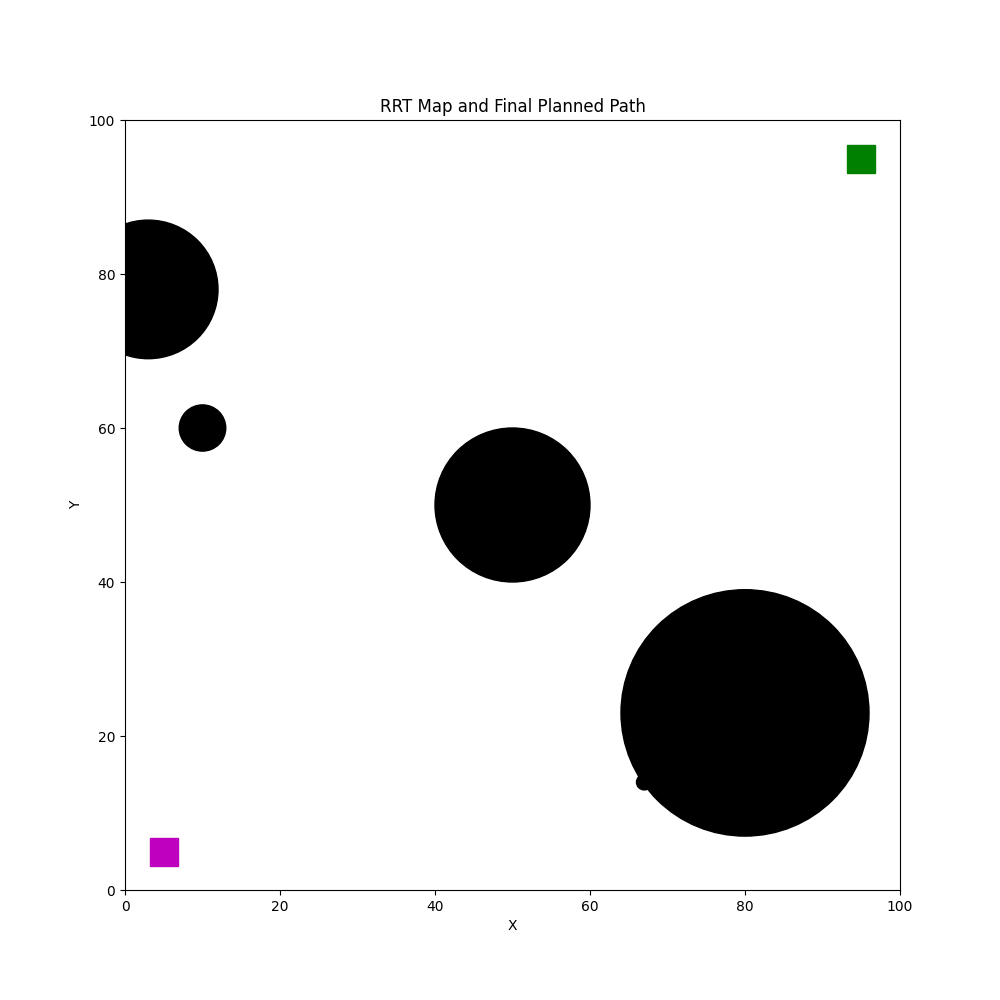
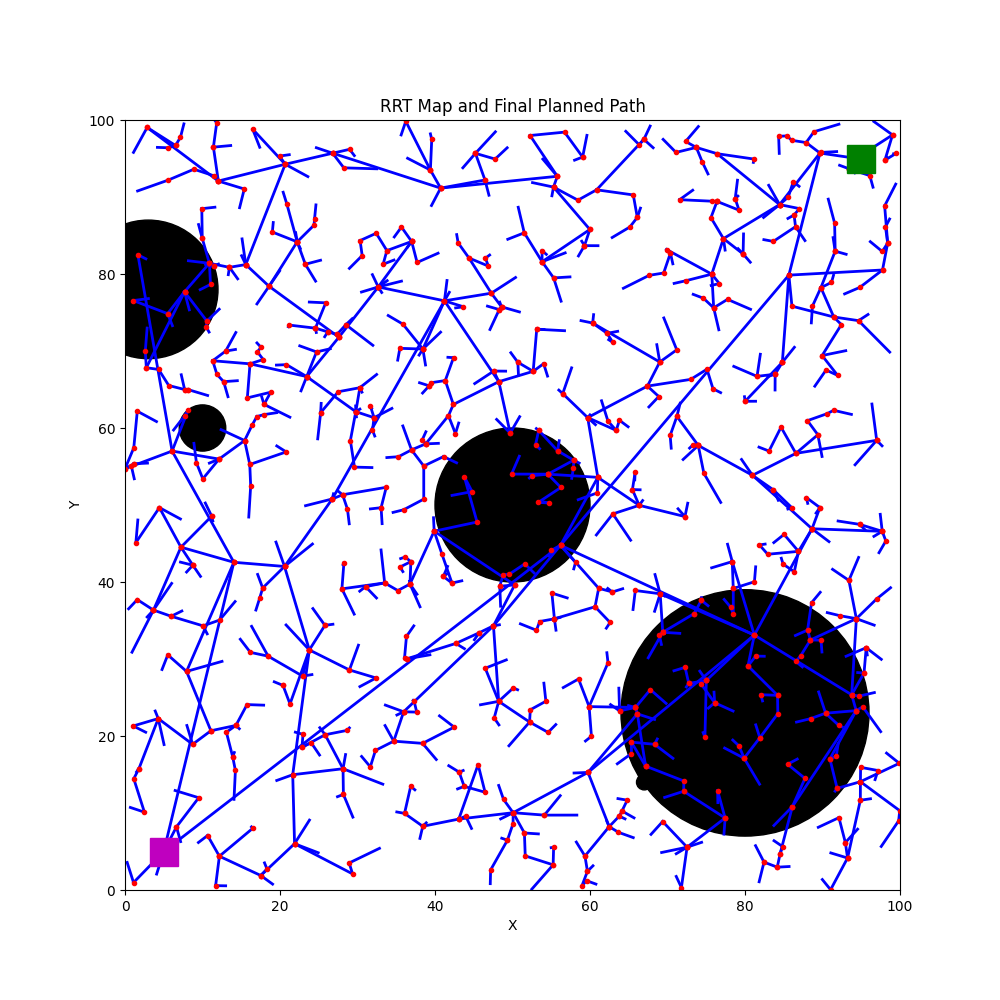
Able to plot nodes (tree).

diff --git a/project1/rrt.py b/project1/rrt.py
@@ -82,32 +82,16 @@ if __name__ == "__main__":
 
     # ----------------------------------------- Run RRT ----------------------------------------
     
-    vertices, edges = getTree(100, start_coord, goal_coord, obstacle_coords)
-
-    # # plotting the map (tree)
-    # for vertex in vertices:
-    #     plt.plot([vertex, node.parent.x], [node.y, node.parent.y], "-b", linewidth=2)
-    #     plt.plot(node.x, node.y, ".r")
-
-    # G = nx.Graph()
-    # color = []
-    # node_size = []
-    # for i in range(len(vertices)):
-    #     if i == 0:
-    #         G.add_node(vertices[i], pos=vertices[i])
-    #         color.append('blue')
-    #         node_size.append(100)
-    #     else:
-    #         G.add_node(vertices[i], pos=vertices[i])
-    #         color.append('green')
-    #         node_size.append(10)
-    # G.add_edges_from(edges)
-    # pos=nx.get_node_attributes(G,'pos')
-    # nx.draw(G, pos=pos, node_color=color, node_size=node_size)
+    vertices, edges = getTree(1000, start_coord, goal_coord, obstacle_coords)
 
     # -------------------------------------- Create Plots ---------------------------------
     
     plt.figure(num=1, figsize=(10, 10), dpi=100, facecolor='w', edgecolor='k')
+
+    # plotting the map (tree)
+    for edge in edges:
+        plt.plot([edge[0][0], edge[1][0]], [edge[0][1], edge[1][1]], "-b", linewidth=2)
+        plt.plot(edge[0][0], edge[0][1], ".r")
 
     # Plot the start and goal locations.
     plt.plot(start_coord[0], start_coord[1], "sm", markersize=20)
@@ -117,7 +101,7 @@ if __name__ == "__main__":
     for obstacle in obstacle_coords:
         obstacle_shape = mpatches.Circle((obstacle[0], obstacle[1]), obstacle[2], color='k')
         plt.gca().add_patch(obstacle_shape)
-    
+
     plt.axis([0, 100, 0, 100])
     plt.title('RRT Map and Final Planned Path')
     plt.ylabel('Y')
